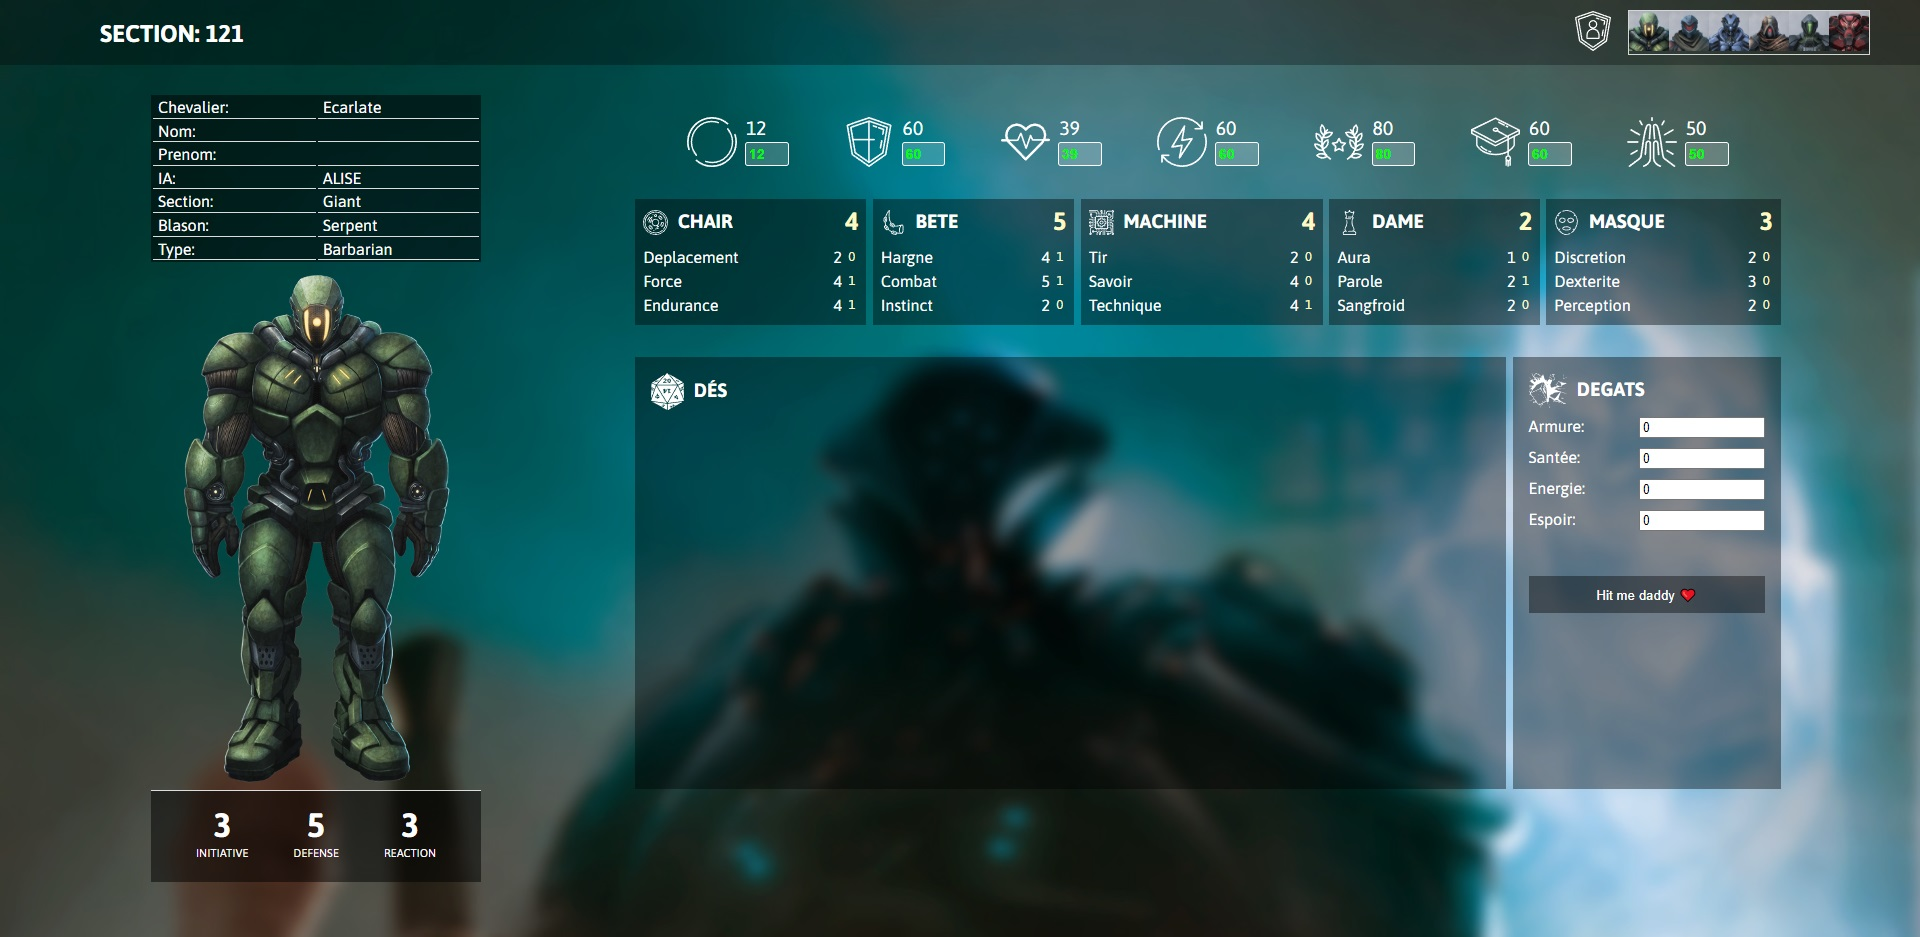
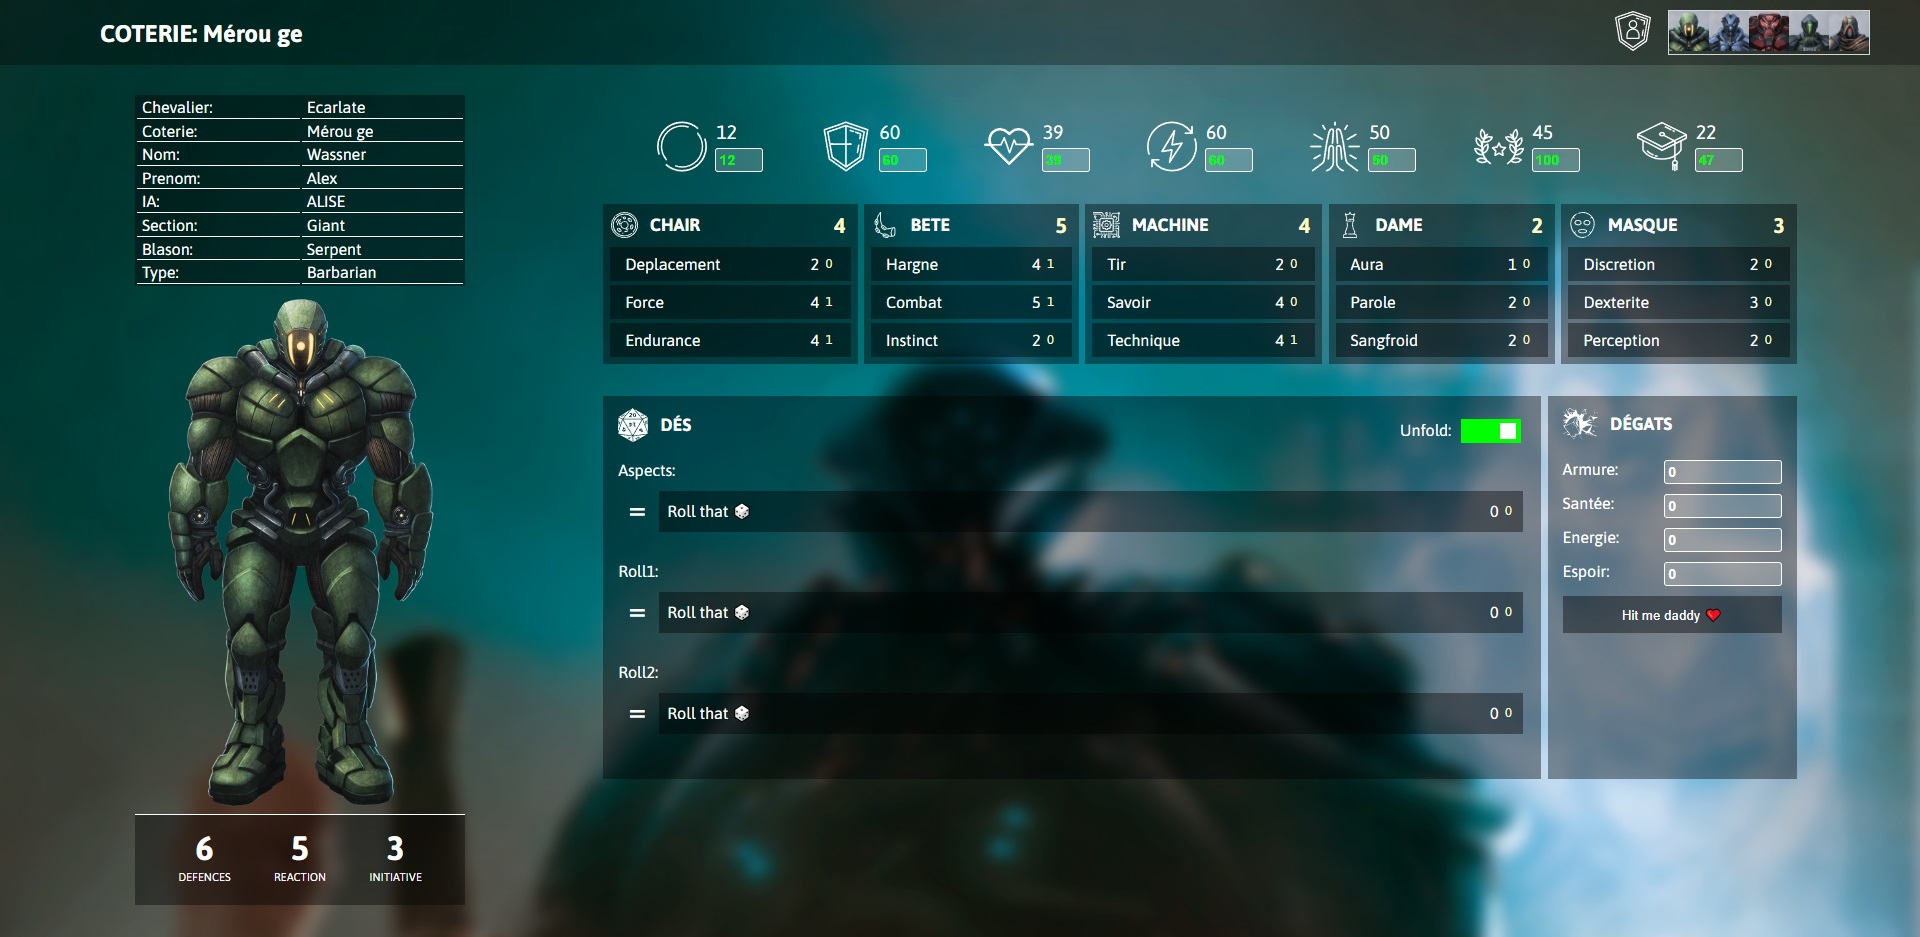
left menu

diff --git a/src/components/Topbar.vue b/src/components/Topbar.vue
@@ -1,29 +1,18 @@
 <template>
   <nav class="topbar">
-    <!-- mobile -->
-    <div class="mobile">
-      <a class="icon" v-on:click="hide = !hide">
-        <i class="fa fa-bars"></i>
+    <a class="icon" v-on:click="hide = !hide">
+      <i class="fa fa-bars"></i>
+    </a>
+    <div class="menu" v-if="hide">
+      <a class="nav-item2 item-support" href="/fiche">
+        <span>Fiche</span>
       </a>
-      <div id="myLinks" v-if="hide">
-        <a class="nav-item2 item-support" href="/">
-          <span>Personnage</span>
-        </a>
-        <a class="nav-item2 item-support" href="/">
-          <span>Stats</span>
-        </a>
-        <a class="nav-item2 item-support" href="/">
-          <span>Equipement</span>
-        </a>
-      </div>
+      <a class="nav-item2 item-support" href="/arsenal">
+        <span>Arsenal</span>
+      </a>
     </div>
-
-    <!-- mobile -->
-    <div class="fixe"></div>
-
     <h2 class="title fixe">COTERIE: {{ $store.state.currentCoteries }}</h2>
-
-    <div class="team fixe">
+    <div class="team">
       <div class="logo">
         <img :src="$store.state.svg.coteries" />
       </div>
@@ -69,12 +58,17 @@ $layout-breakpoint-extralarge: 1200px; //1040px
   height: 65px;
   background-color: rgba(0, 0, 0, 0.3);
   margin-bottom: 20px;
+  -moz-user-select: none;
+  -khtml-user-select: none;
+  -webkit-user-select: none;
+  -ms-user-select: none;
+  user-select: none;
 }
 
 .title {
   display: inline-block;
   vertical-align: middle;
-  margin-left: 100px;
+  margin-left: 50px;
 }
 
 .logo {
@@ -120,26 +114,36 @@ $layout-breakpoint-extralarge: 1200px; //1040px
   .fixe {
     display: none;
   }
+  .menu {
+    position: absolute;
+    background-color: rgba(0, 0, 0, 1);
+    border-top: 1px solid #c2c2c2;
+    width: 100vw;
+    top: 65px;
+  }
 }
 @media (min-width: $layout-breakpoint-medium) {
   .mobile {
     display: none;
+  }
+  .menu {
+    position: fixed;
+    width: 200px;
   }
 }
 
 .icon {
   position: relative;
   left: 15px;
-  top: 12px;
+  top: 10px;
   font-size: 2.3em;
   padding-bottom: 50px;
 }
 
-.myLinks {
+.menu {
   display: flex;
   flex-direction: column;
   justify-content: space-evenly;
-  margin-top: 50px;
 }
 
 .nav-item2 {
@@ -150,8 +154,8 @@ $layout-breakpoint-extralarge: 1200px; //1040px
   font-size: 17px;
   font-weight: 400;
   padding: 0 20px;
-  background-color: rgb(0, 0, 0);
-  border-top: 1px solid #c2c2c2;
+  background-color: rgba(0, 0, 0, 0.8);
+  border: 1px solid #c2c2c2;
   display: inline-block;
   line-height: 50px;
   vertical-align: middle;

diff --git a/src/App.vue b/src/App.vue
@@ -1,7 +1,7 @@
 <template>
   <div id="app">
     <Topbar class="Topbar" v-if="$store.state.token != ''" />
-    <Login class="logi" v-if="$store.state.token == ''" />
+    <Login class="login" v-if="$store.state.token == ''" />
     <router-view v-if="$store.state.token != ''" />
   </div>
 </template>
@@ -17,16 +17,8 @@ export default {
 </script>
 
 <style lang="scss">
-/* IMPORT DES FONTS */
-@import url("https://fonts.googleapis.com/css?family=Maven+Pro");
-@import url("https://fonts.googleapis.com/css?family=Asap:400,500,700");
+@import "@/global.scss";
 
-$layout-breakpoint-small: 576px; //420px
-$layout-breakpoint-medium: 768px; //670px
-$layout-breakpoint-large: 992px; //880px
-$layout-breakpoint-extralarge: 1200px; //1040px
-
-/* DESIGN GÉNÉRAL */
 html,
 body,
 p {
@@ -35,7 +27,7 @@ p {
 }
 
 #app {
-  color: white;
+  color: $color-white;
   font-family: "Asap", Helvetica, sans-serif;
   font-weight: 100;
   margin: 0;
@@ -46,9 +38,8 @@ p {
 @media (max-width: $layout-breakpoint-medium) {
   #app {
     background: url("./assets/bg/bg-2.png");
-    //background-size: cover;
   }
-  .logi {
+  .login {
     margin: auto;
   }
 }
@@ -57,7 +48,7 @@ p {
     background: url("./assets/bg/bg-1.jpg");
     background-size: cover;
   }
-  .logi {
+  .login {
     position: fixed;
     width: 500px;
     top: 50%;

diff --git a/src/views/fiche.vue b/src/views/fiche.vue
@@ -1,5 +1,5 @@
 <template>
-  <div>
+  <div id="fiche">
     <section class="content">
       <!-- LEFT -->
       <div class="knight">
@@ -163,7 +163,7 @@
 <script>
 import Card from "@/components/Card";
 export default {
-  name: "home",
+  name: "fiche",
   components: { Card },
   data() {
     return {
@@ -299,17 +299,7 @@ export default {
 </script>
 
 <style scoped lang="scss">
-$layout-breakpoint-small: 576px; //420px
-$layout-breakpoint-medium: 768px; //670px
-$layout-breakpoint-large: 992px; //880px
-$layout-breakpoint-extralarge: 1200px; //1040px
-
-$color-green: #00ff00;
-$color-white: #fff;
-$color-orange: #ffb900;
-$color-red: #ff3200;
-$color-yellow: #fff9c4;
-$color-card-bg: rgba(0, 0, 0, 0.4);
+@import "@/global.scss";
 
 .content {
   display: flex;

diff --git a/src/views/arsenal.vue b/src/views/arsenal.vue
@@ -1,0 +1,31 @@
+<template>
+  <div id="arsenal">
+    <section class="content">
+      <Card class="Arme1" :title="'dégats'" :ico="require('@/assets/icons/damage.svg')" :icoSize="2" :padding="15"> </Card>
+    </section>
+  </div>
+</template>
+
+<script>
+import Card from "@/components/Card";
+export default {
+  name: "arsenal",
+  components: { Card },
+  data() {
+    return {};
+  },
+
+  methods: {},
+};
+</script>
+
+<style scoped lang="scss">
+@import "@/global.scss";
+
+.content {
+  display: flex;
+  flex-direction: row;
+  justify-content: space-evenly;
+  color: $color-white;
+}
+</style>

diff --git a/src/router.js b/src/router.js
@@ -2,6 +2,7 @@ import Vue from "vue";
 import Router from "vue-router";
 
 import fiche from "./views/fiche.vue";
+import arsenal from "./views/arsenal.vue";
 import Empty from "./views/fiche.vue";
 
 Vue.use(Router);
@@ -14,6 +15,16 @@ export default new Router({
       path: "/",
       name: "fiche",
       component: fiche,
+    },
+    {
+      path: "/fiche",
+      name: "fiche",
+      component: fiche,
+    },
+    {
+      path: "/arsenal",
+      name: "arsenal",
+      component: arsenal,
     },
     {
       // catch all 404 - define at the very end

diff --git a/src/global.scss b/src/global.scss
@@ -1,0 +1,14 @@
+@import url("https://fonts.googleapis.com/css?family=Maven+Pro");
+@import url("https://fonts.googleapis.com/css?family=Asap:400,500,700");
+
+$layout-breakpoint-small: 576px; //420px
+$layout-breakpoint-medium: 768px; //670px
+$layout-breakpoint-large: 992px; //880px
+$layout-breakpoint-extralarge: 1200px; //1040px
+
+$color-green: #00ff00;
+$color-white: #fff;
+$color-orange: #ffb900;
+$color-red: #ff3200;
+$color-yellow: #fff9c4;
+$color-card-bg: rgba(0, 0, 0, 0.4);

diff --git a/src/components/Login.vue b/src/components/Login.vue
@@ -83,7 +83,6 @@ export default {
 .login {
   text-align: center;
 }
-
 .group {
   width: 100%;
   margin: 10px;

diff --git a/README.md b/README.md
@@ -2,6 +2,7 @@
 
 [WIP]
 Dashboard for Knight role play (stats, dice rolls and damages management).
+Backend here: https://github.com/Dtanguy/knightBack
 
 <p align="center">
 	<img src="https://raw.githubusercontent.com/dtanguy/KnightDash/master/src/assets/readme/1.jpg" width="100%">
